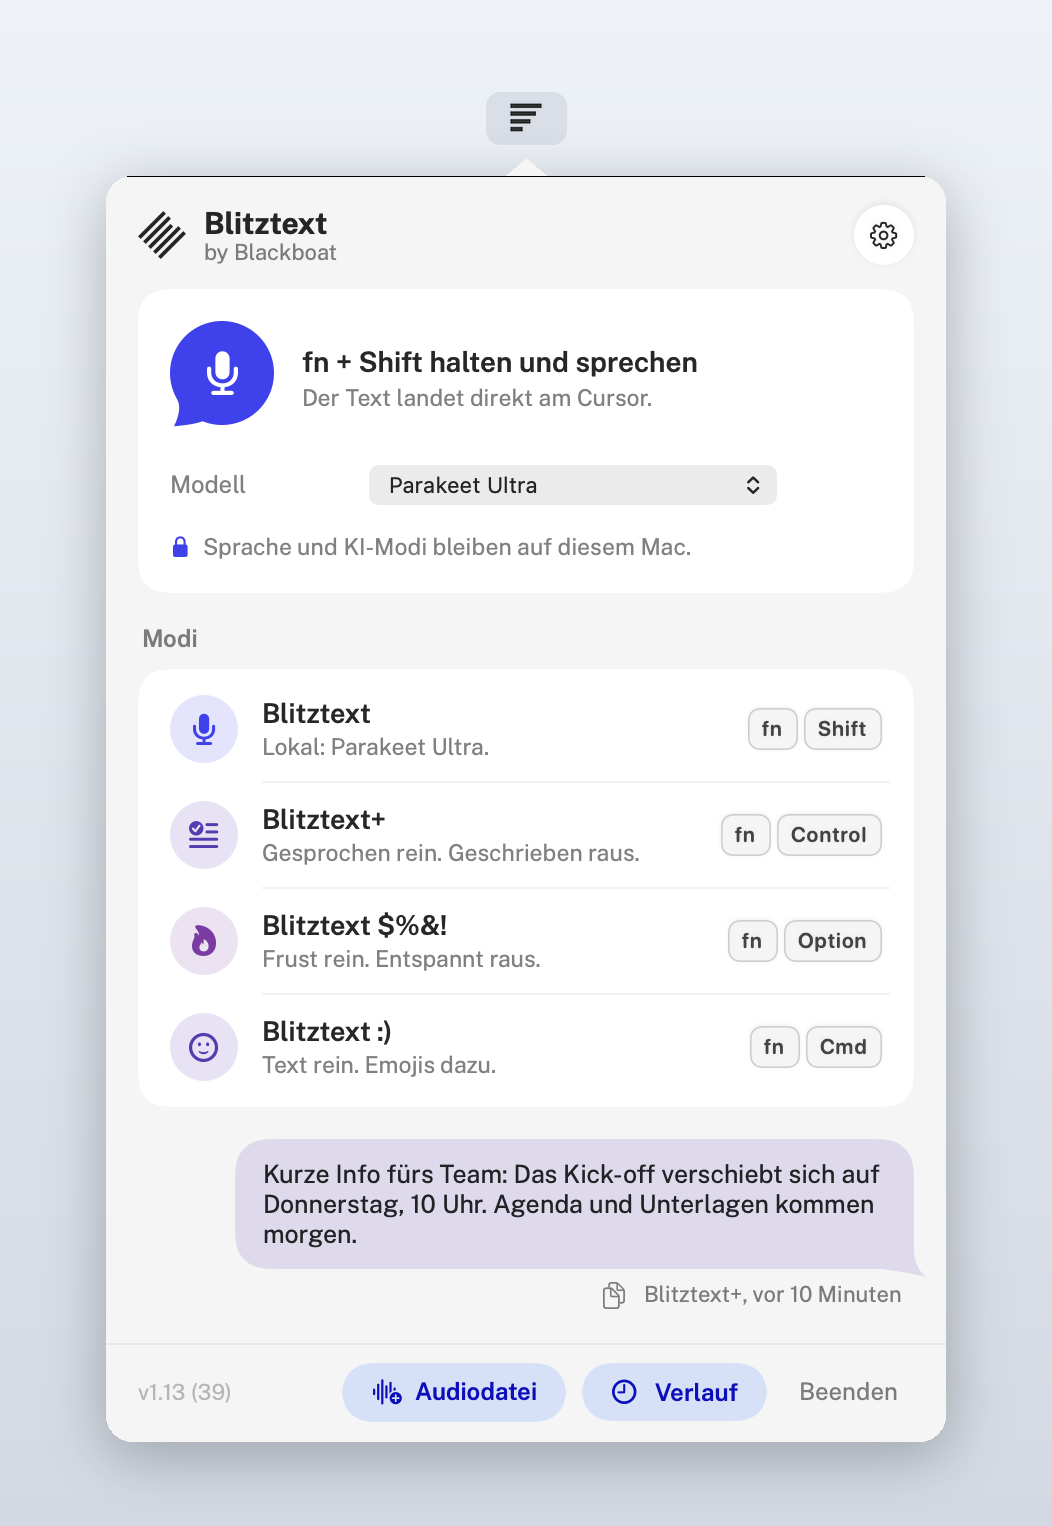
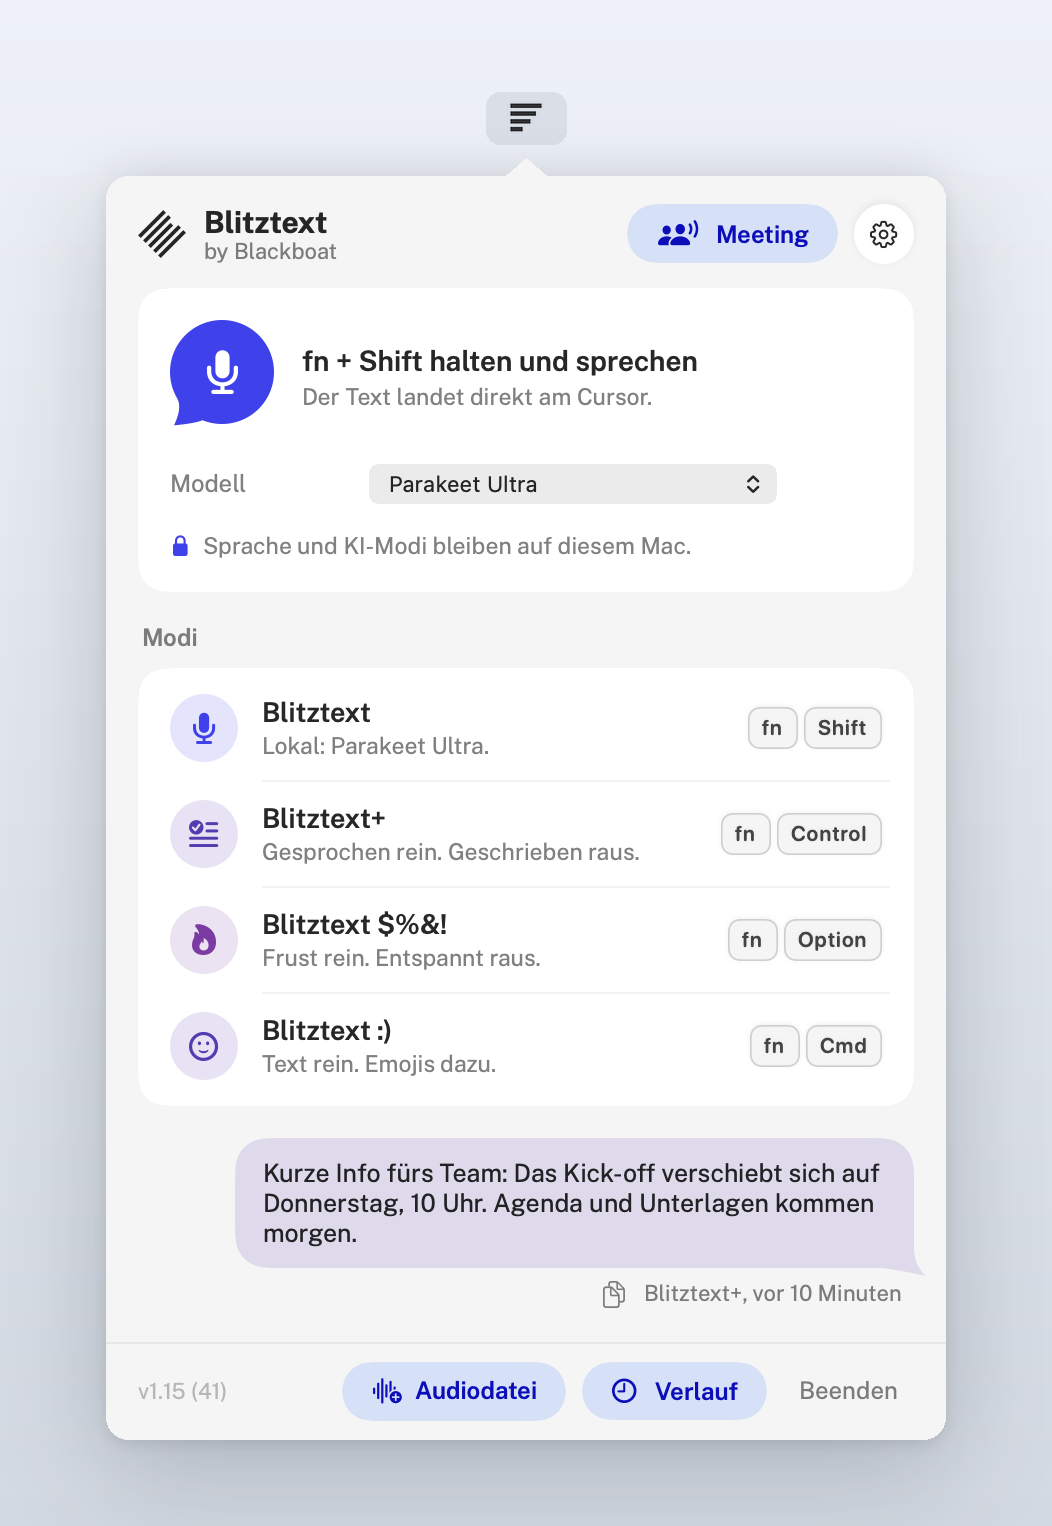
Screenshots of Blitztext 1.15: meetings, local language model (#32)
Claude-Session: https://claude.ai/code/session_01SVtM74YHGzCBwWJF2Ms7gu

diff --git a/README.md b/README.md
@@ -23,7 +23,7 @@
 </p>
 
 <p align="center">
-  <img src="docs/screenshots/menu-bar.png" width="400" alt="Blitztext in the menu bar: the speech bubble to dictate, four modes with their shortcuts and the last text as a message">
+  <img src="docs/screenshots/menu-bar.png" width="400" alt="Blitztext in the menu bar: the speech bubble to dictate, the meeting button, four modes with their shortcuts and the last text as a message">
   <img src="docs/screenshots/settings-modes.png" width="400" alt="Settings, Modi: writing style, instructions, emoji density and a mode per app or website">
 </p>
 
@@ -76,8 +76,10 @@ Keyboards without `fn`: set your own shortcut per mode in the settings.
 
 | | |
 |---|---|
-| <img src="docs/screenshots/settings-models.png" width="400" alt="Settings, Modelle: local speech recognition with Parakeet Ultra and the AI modes with Apple Intelligence"> | <img src="docs/screenshots/settings-general.png" width="400" alt="Settings, Allgemein: how Blitztext works, shortcuts, hold or press, and the recording pill"> |
-| Speech recognition and AI modes on your Mac | How Blitztext works, shortcuts and the lilac pill while you speak |
+| <img src="docs/screenshots/meeting-start.png" width="400" alt="Meeting: consent reminder, switches for online meeting and live notes (beta) and for the summary"> | <img src="docs/screenshots/meeting-result.png" width="400" alt="Meeting result with sample data: summary with decisions and to-dos, people to rename and the transcript"> |
+| Meetings in the room or online, with live notes | Summary with decisions and to-dos, transcript by person |
+| <img src="docs/screenshots/settings-models.png" width="400" alt="Settings, Modelle: the AI modes with Apple Intelligence and the local language model for meetings with Gemma 4 E4B and 12B"> | <img src="docs/screenshots/settings-general.png" width="400" alt="Settings, Allgemein: how Blitztext works, shortcuts, hold or press, and the recording pill"> |
+| AI modes and the optional local language model on your Mac | How Blitztext works, shortcuts and the lilac pill while you speak |
 
 The app is in German for now.
 
